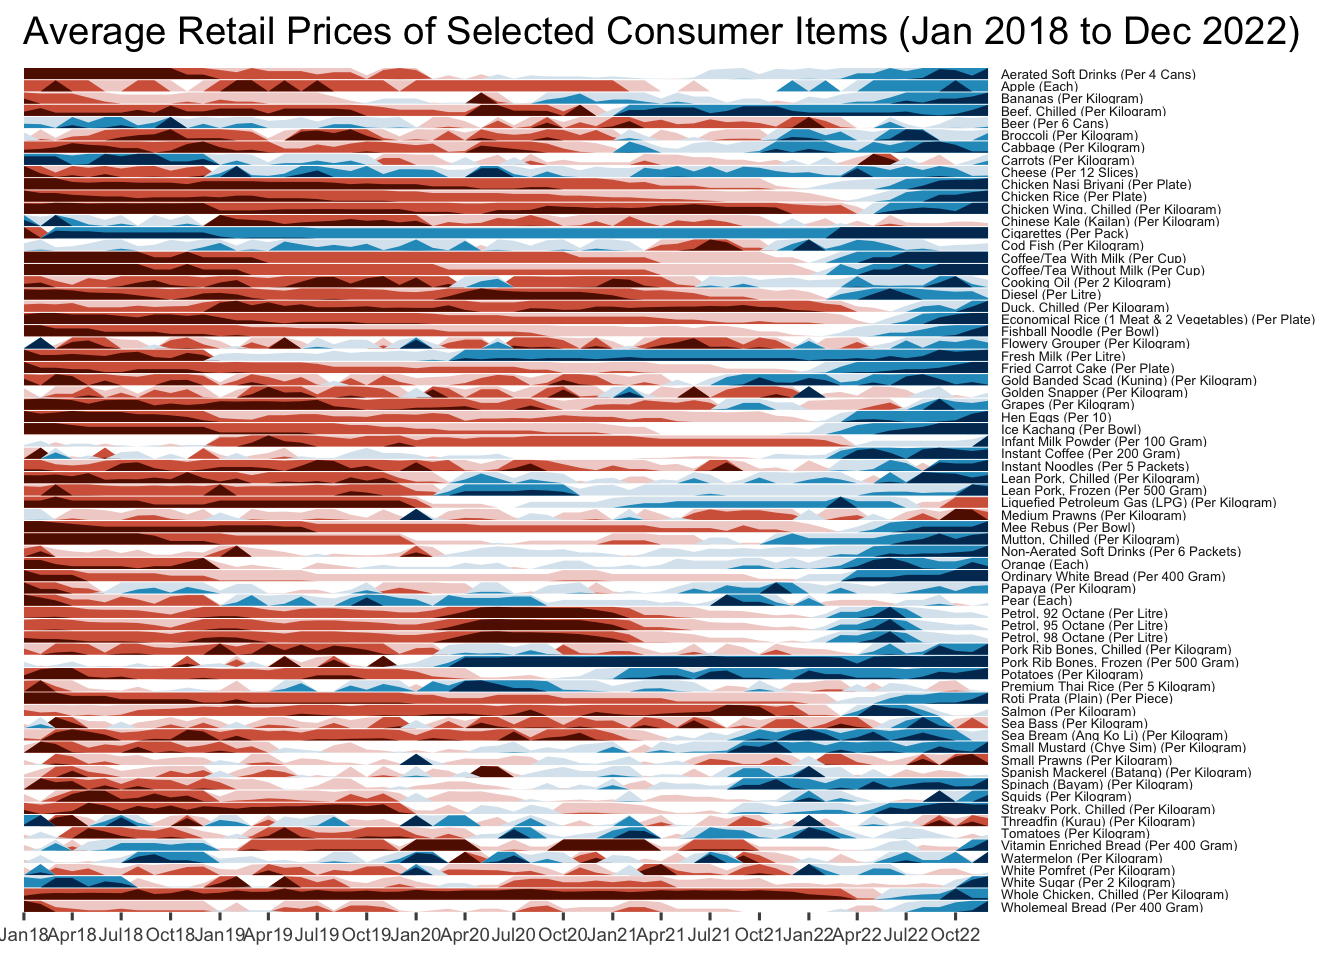
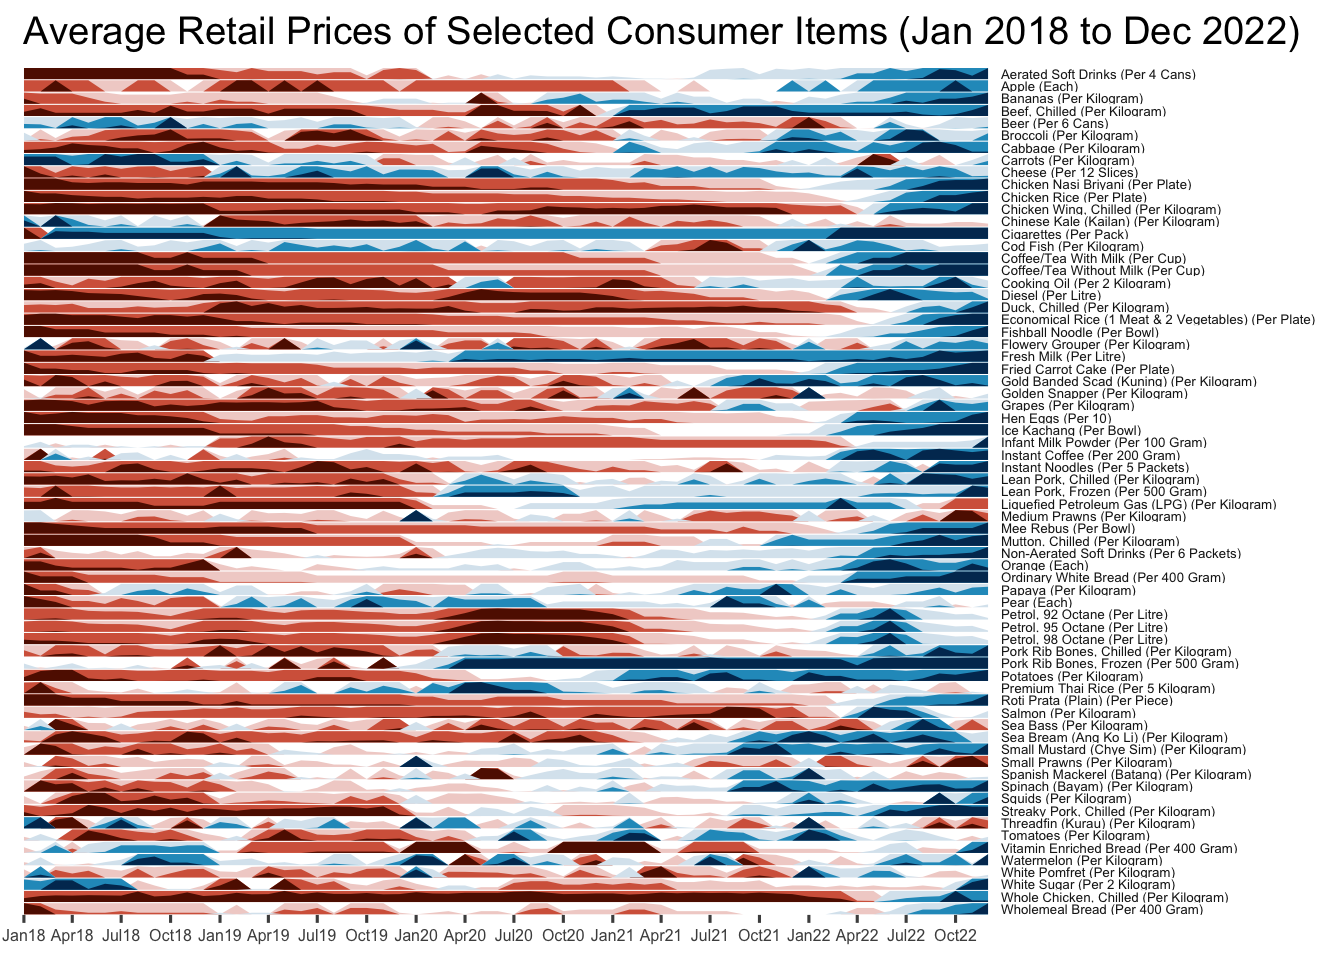
Horizon Plot

Changed region(s): [[0.0, 0.125, 0.9375, 1.0]]

diff --git a/_site/Topics/HO9/HO9.html b/_site/Topics/HO9/HO9.html
@@ -828,26 +828,29 @@ Note
 <section id="average-consumer-price" class="level3">
 <h3 class="anchored" data-anchor-id="average-consumer-price">6.5.2 Average Consumer Price</h3>
 <div class="cell">
-<div class="sourceCode cell-code" id="cb35"><pre class="sourceCode r code-with-copy"><code class="sourceCode r"><span id="cb35-1"><a href="#cb35-1" aria-hidden="true" tabindex="-1"></a>price <span class="sc">%&gt;%</span> </span>
-<span id="cb35-2"><a href="#cb35-2" aria-hidden="true" tabindex="-1"></a>  <span class="fu">filter</span>(Date <span class="sc">&gt;=</span> <span class="st">"2018-01-01"</span>) <span class="sc">%&gt;%</span></span>
-<span id="cb35-3"><a href="#cb35-3" aria-hidden="true" tabindex="-1"></a>  <span class="fu">ggplot</span>() <span class="sc">+</span></span>
-<span id="cb35-4"><a href="#cb35-4" aria-hidden="true" tabindex="-1"></a>  <span class="fu">geom_horizon</span>(<span class="fu">aes</span>(<span class="at">x =</span> Date, <span class="at">y =</span> Values), </span>
-<span id="cb35-5"><a href="#cb35-5" aria-hidden="true" tabindex="-1"></a>               <span class="at">origin =</span> <span class="st">"midpoint"</span>, </span>
-<span id="cb35-6"><a href="#cb35-6" aria-hidden="true" tabindex="-1"></a>               <span class="at">horizonscale =</span> <span class="dv">6</span>)<span class="sc">+</span></span>
-<span id="cb35-7"><a href="#cb35-7" aria-hidden="true" tabindex="-1"></a>  <span class="fu">facet_grid</span>(<span class="st">`</span><span class="at">Consumer Items</span><span class="st">`</span><span class="sc">~</span>.) <span class="sc">+</span></span>
-<span id="cb35-8"><a href="#cb35-8" aria-hidden="true" tabindex="-1"></a>  <span class="fu">theme_few</span>() <span class="sc">+</span></span>
-<span id="cb35-9"><a href="#cb35-9" aria-hidden="true" tabindex="-1"></a>  <span class="fu">scale_fill_hcl</span>(<span class="at">palette =</span> <span class="st">'RdBu'</span>) <span class="sc">+</span></span>
-<span id="cb35-10"><a href="#cb35-10" aria-hidden="true" tabindex="-1"></a>  <span class="fu">theme</span>(<span class="at">panel.spacing.y=</span><span class="fu">unit</span>(<span class="dv">0</span>, <span class="st">"lines"</span>), </span>
-<span id="cb35-11"><a href="#cb35-11" aria-hidden="true" tabindex="-1"></a>        <span class="at">strip.text.y =</span> <span class="fu">element_text</span>(<span class="at">size =</span> <span class="dv">5</span>, <span class="at">angle =</span> <span class="dv">0</span>, <span class="at">hjust =</span> <span class="dv">0</span>),</span>
-<span id="cb35-12"><a href="#cb35-12" aria-hidden="true" tabindex="-1"></a>        <span class="at">legend.position =</span> <span class="st">'none'</span>,</span>
-<span id="cb35-13"><a href="#cb35-13" aria-hidden="true" tabindex="-1"></a>        <span class="at">axis.text.y =</span> <span class="fu">element_blank</span>(),</span>
-<span id="cb35-14"><a href="#cb35-14" aria-hidden="true" tabindex="-1"></a>        <span class="at">axis.text.x =</span> <span class="fu">element_text</span>(<span class="at">size=</span><span class="dv">7</span>),</span>
-<span id="cb35-15"><a href="#cb35-15" aria-hidden="true" tabindex="-1"></a>        <span class="at">axis.title.y =</span> <span class="fu">element_blank</span>(),</span>
-<span id="cb35-16"><a href="#cb35-16" aria-hidden="true" tabindex="-1"></a>        <span class="at">axis.title.x =</span> <span class="fu">element_blank</span>(),</span>
-<span id="cb35-17"><a href="#cb35-17" aria-hidden="true" tabindex="-1"></a>        <span class="at">axis.ticks.y =</span> <span class="fu">element_blank</span>(),</span>
-<span id="cb35-18"><a href="#cb35-18" aria-hidden="true" tabindex="-1"></a>        <span class="at">panel.border =</span> <span class="fu">element_blank</span>()) <span class="sc">+</span></span>
-<span id="cb35-19"><a href="#cb35-19" aria-hidden="true" tabindex="-1"></a>  <span class="fu">scale_x_date</span>(<span class="at">expand =</span> <span class="fu">c</span>(<span class="dv">0</span>,<span class="dv">0</span>), <span class="at">date_breaks =</span> <span class="st">"3 month"</span>, <span class="at">date_labels =</span> <span class="st">"%b%y"</span>) <span class="sc">+</span></span>
-<span id="cb35-20"><a href="#cb35-20" aria-hidden="true" tabindex="-1"></a>  <span class="fu">ggtitle</span>(<span class="st">'Average Retail Prices of Selected Consumer Items (Jan 2018 to Dec 2022)'</span>)</span></code><button title="Copy to Clipboard" class="code-copy-button"><i class="bi"></i></button></pre></div>
+<div class="sourceCode cell-code" id="cb35"><pre class="sourceCode r code-with-copy"><code class="sourceCode r"><span id="cb35-1"><a href="#cb35-1" aria-hidden="true" tabindex="-1"></a><span class="do">##| fig-width: 12</span></span>
+<span id="cb35-2"><a href="#cb35-2" aria-hidden="true" tabindex="-1"></a><span class="do">##| fig-height: 10</span></span>
+<span id="cb35-3"><a href="#cb35-3" aria-hidden="true" tabindex="-1"></a></span>
+<span id="cb35-4"><a href="#cb35-4" aria-hidden="true" tabindex="-1"></a>price <span class="sc">%&gt;%</span> </span>
+<span id="cb35-5"><a href="#cb35-5" aria-hidden="true" tabindex="-1"></a>  <span class="fu">filter</span>(Date <span class="sc">&gt;=</span> <span class="st">"2018-01-01"</span>) <span class="sc">%&gt;%</span></span>
+<span id="cb35-6"><a href="#cb35-6" aria-hidden="true" tabindex="-1"></a>  <span class="fu">ggplot</span>() <span class="sc">+</span></span>
+<span id="cb35-7"><a href="#cb35-7" aria-hidden="true" tabindex="-1"></a>  <span class="fu">geom_horizon</span>(<span class="fu">aes</span>(<span class="at">x =</span> Date, <span class="at">y =</span> Values), </span>
+<span id="cb35-8"><a href="#cb35-8" aria-hidden="true" tabindex="-1"></a>               <span class="at">origin =</span> <span class="st">"midpoint"</span>, </span>
+<span id="cb35-9"><a href="#cb35-9" aria-hidden="true" tabindex="-1"></a>               <span class="at">horizonscale =</span> <span class="dv">6</span>)<span class="sc">+</span></span>
+<span id="cb35-10"><a href="#cb35-10" aria-hidden="true" tabindex="-1"></a>  <span class="fu">facet_grid</span>(<span class="st">`</span><span class="at">Consumer Items</span><span class="st">`</span><span class="sc">~</span>.) <span class="sc">+</span></span>
+<span id="cb35-11"><a href="#cb35-11" aria-hidden="true" tabindex="-1"></a>  <span class="fu">theme_few</span>() <span class="sc">+</span> </span>
+<span id="cb35-12"><a href="#cb35-12" aria-hidden="true" tabindex="-1"></a>  <span class="fu">scale_fill_hcl</span>(<span class="at">palette =</span> <span class="st">'RdBu'</span>) <span class="sc">+</span></span>
+<span id="cb35-13"><a href="#cb35-13" aria-hidden="true" tabindex="-1"></a>  <span class="fu">theme</span>(<span class="at">panel.spacing.y=</span><span class="fu">unit</span>(<span class="dv">0</span>, <span class="st">"lines"</span>), </span>
+<span id="cb35-14"><a href="#cb35-14" aria-hidden="true" tabindex="-1"></a>        <span class="at">strip.text.y =</span> <span class="fu">element_text</span>(<span class="at">size =</span> <span class="dv">5</span>, <span class="at">angle =</span> <span class="dv">0</span>, <span class="at">hjust =</span> <span class="dv">0</span>),</span>
+<span id="cb35-15"><a href="#cb35-15" aria-hidden="true" tabindex="-1"></a>        <span class="at">legend.position =</span> <span class="st">'none'</span>,</span>
+<span id="cb35-16"><a href="#cb35-16" aria-hidden="true" tabindex="-1"></a>        <span class="at">axis.text.y =</span> <span class="fu">element_blank</span>(),</span>
+<span id="cb35-17"><a href="#cb35-17" aria-hidden="true" tabindex="-1"></a>        <span class="at">axis.text.x =</span> <span class="fu">element_text</span>(<span class="at">size=</span><span class="dv">6</span>),</span>
+<span id="cb35-18"><a href="#cb35-18" aria-hidden="true" tabindex="-1"></a>        <span class="at">axis.title.y =</span> <span class="fu">element_blank</span>(),</span>
+<span id="cb35-19"><a href="#cb35-19" aria-hidden="true" tabindex="-1"></a>        <span class="at">axis.title.x =</span> <span class="fu">element_blank</span>(),</span>
+<span id="cb35-20"><a href="#cb35-20" aria-hidden="true" tabindex="-1"></a>        <span class="at">axis.ticks.y =</span> <span class="fu">element_blank</span>(),</span>
+<span id="cb35-21"><a href="#cb35-21" aria-hidden="true" tabindex="-1"></a>        <span class="at">panel.border =</span> <span class="fu">element_blank</span>()) <span class="sc">+</span></span>
+<span id="cb35-22"><a href="#cb35-22" aria-hidden="true" tabindex="-1"></a>  <span class="fu">scale_x_date</span>(<span class="at">expand =</span> <span class="fu">c</span>(<span class="dv">0</span>,<span class="dv">0</span>), <span class="at">date_breaks =</span> <span class="st">"3 month"</span>, <span class="at">date_labels =</span> <span class="st">"%b%y"</span>) <span class="sc">+</span></span>
+<span id="cb35-23"><a href="#cb35-23" aria-hidden="true" tabindex="-1"></a>  <span class="fu">ggtitle</span>(<span class="st">'Average Retail Prices of Selected Consumer Items (Jan 2018 to Dec 2022)'</span>)</span></code><button title="Copy to Clipboard" class="code-copy-button"><i class="bi"></i></button></pre></div>
 <div class="cell-output-display">
 <p><img src="HO9_files/figure-html/unnamed-chunk-23-1.png" class="img-fluid" width="672"></p>
 </div>

diff --git a/_site/index.html b/_site/index.html
@@ -596,7 +596,7 @@ Wan Kee
 </a>
 </div>
 </div>
-<div class="quarto-post image-right" data-index="11" data-listing-date-sort="1708099200000" data-listing-file-modified-sort="1708759876306" data-listing-date-modified-sort="1708759876000" data-listing-reading-time-sort="14">
+<div class="quarto-post image-right" data-index="11" data-listing-date-sort="1708099200000" data-listing-file-modified-sort="1708760285926" data-listing-date-modified-sort="1708760285000" data-listing-reading-time-sort="14">
 <div class="thumbnail">
 <p><a href="./Topics/HO9/HO9.html"> <p class="card-img-top"><img src="Topics/HO9/HO9_files/figure-html/unnamed-chunk-11-1.png"  class="thumbnail-image card-img"/></p> </a></p>
 </div>
